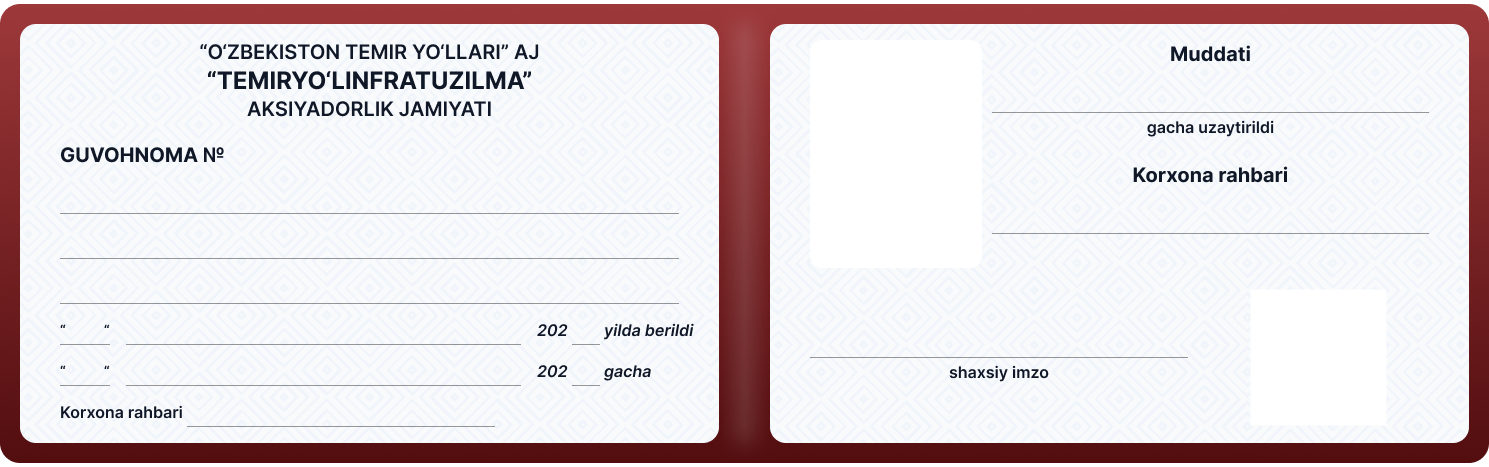
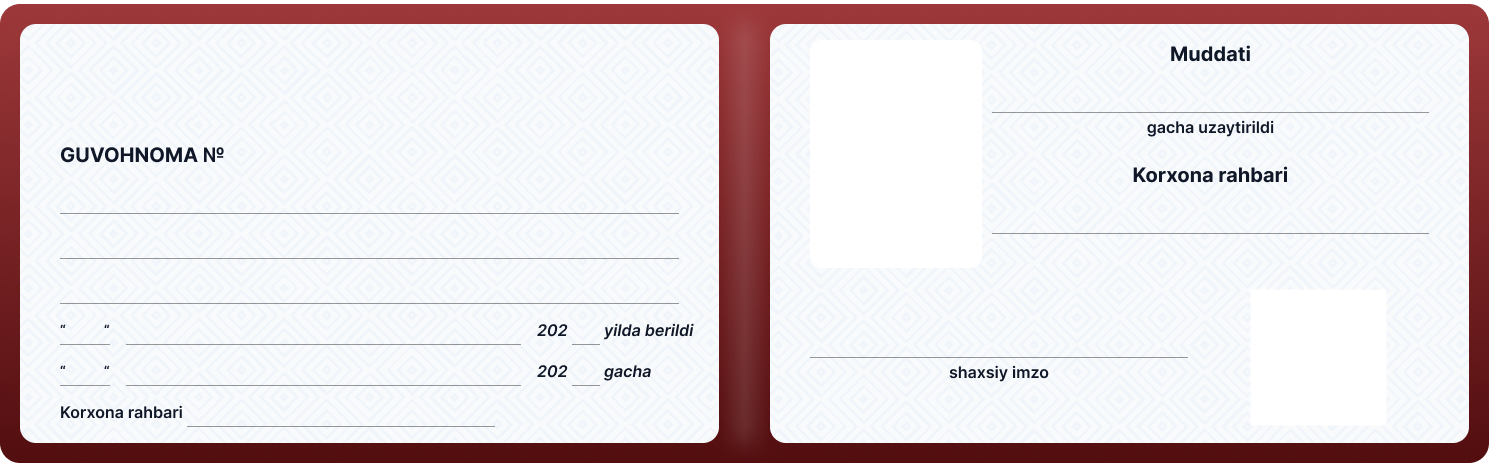
feat(certificate): draw position certificate header as text (DAS-18288)
The 3-line organisation title is erased from the blank image and drawn
from certificate.header {top, name, bottom} on the card and in the PDF/SVG;
without a header the old fixed text is used. Backend doesn't send it yet.

Changed region(s): [[0.1236, 0.0899, 0.3707, 0.2698]]

diff --git a/src/components/ui/IdRedCertificate.vue b/src/components/ui/IdRedCertificate.vue
@@ -29,6 +29,28 @@
     data: { type: Object, required: true }
   })
 
+  // Blanka sarlavhasi (tashkilot nomi, 3 qator) endi rasmda emas — backenddan keladi.
+  // BACKEND: `certificate.header` hali yuborilmaydi (docs/api/position-certificate-header.md),
+  // kelmaguncha avvalgi blankadagi matn ko'rsatiladi
+  const DEFAULT_HEADER = {
+    top: '“O‘ZBEKISTON TEMIR YO‘LLARI” AJ',
+    name: '“TEMIRYO‘LINFRATUZILMA”',
+    bottom: 'AKSIYADORLIK JAMIYATI'
+  }
+
+  // top — qator harflarining o'rtasi (blankada y 51 / 79.5 / 108 dan 467 ga)
+  const HEADER_LINES = [
+    { key: 'top', top: '10.92%', cls: 'cert-head' },
+    { key: 'name', top: '17.02%', cls: 'cert-head cert-head--name' },
+    { key: 'bottom', top: '23.13%', cls: 'cert-head' }
+  ]
+
+  const header = computed(() => {
+    const h = props.data.header
+    if (!h || !(h.top || h.name || h.bottom)) return DEFAULT_HEADER
+    return { top: h.top || '', name: h.name || '', bottom: h.bottom || '' }
+  })
+
   const isFlipped = ref(false)
   const isAnimating = ref(false)
 
@@ -97,6 +119,7 @@
       qrDataUrl: qrDataUrl.value,
       data: d,
       fields: {
+        header: header.value,
         issueDay: dayOf(d.issueDate),
         issueMonth: monthOf(d.issueDate),
         issueYear: fullYear(d.issueDate),
@@ -133,6 +156,17 @@
         class="absolute inset-0 [backface-visibility:hidden] rounded-2xl overflow-hidden shadow-lg bg-cover bg-center text-[#1c2b22]"
         :style="{ backgroundImage: `url(${frontSide})` }"
       >
+        <!-- Sarlavha: tashkilot nomi (o'rtadagi qator katta va qalin) -->
+        <span
+          v-for="line in HEADER_LINES"
+          v-show="header[line.key]"
+          :key="line.key"
+          :class="line.cls"
+          :style="{ top: line.top }"
+          :title="header[line.key]"
+          >{{ header[line.key] }}</span
+        >
+
         <!-- Guvohnoma № -->
         <span
           class="absolute left-[16%] top-[30%] max-w-[20%] cert-text font-medium sm:font-bold font-mono tracking-wide truncate"
@@ -278,6 +312,29 @@
     font-size: 13px;
   }
 
+  /* Sarlavha qatorlari chap varaq (x 20–718 / 1489) markazida; top — harflar o'rtasi */
+  .cert-head {
+    position: absolute;
+    left: 1.34%;
+    width: 46.88%;
+    padding: 0 2%;
+    transform: translateY(-50%);
+    text-align: center;
+    text-transform: uppercase;
+    white-space: nowrap;
+    overflow: hidden;
+    text-overflow: ellipsis;
+    line-height: 1.2;
+    font-weight: 500;
+    font-size: 9px;
+    color: #101828;
+  }
+
+  .cert-head--name {
+    font-weight: 700;
+    font-size: 11px;
+  }
+
   /* Blankadagi ikkita chiziq orasidagi masofa: 45/467 balandlik = 3.02cqw */
   .post-name {
     line-height: 19px;
@@ -298,6 +355,15 @@
 
     .post-name {
       line-height: 3.02cqw;
+    }
+
+    /* Blankada: 20.5px va 25px (1489px kenglikda) */
+    .cert-head {
+      font-size: 1.38cqw;
+    }
+
+    .cert-head--name {
+      font-size: 1.68cqw;
     }
   }
 

diff --git a/src/components/ui/idRedCertificatePdf.js b/src/components/ui/idRedCertificatePdf.js
@@ -89,12 +89,44 @@ function coverYear(ctx, top) {
   ctx.fillRect(pct(35.73, CARD_W), pct(top, FRONT_H), pct(2.62, CARD_W), pct(4.93, FRONT_H))
 }
 
+// Sarlavha (tashkilot nomi): chap varaq markazida, y — qatorning asos chizig'i (blankadagi kabi)
+const HEADER_CENTER_X = 369
+const HEADER_MAX_W = 640
+const HEADER_LINES = [
+  { key: 'top', baseline: 58.5, size: 20.5, weight: 500 },
+  { key: 'name', baseline: 88.5, size: 25, weight: 700 },
+  { key: 'bottom', baseline: 115.5, size: 20.5, weight: 500 }
+]
+
+function drawHeader(ctx, header) {
+  if (!header) return
+  const family = getComputedStyle(document.body).fontFamily || 'sans-serif'
+  ctx.save()
+  ctx.fillStyle = '#101828'
+  ctx.textAlign = 'center'
+  ctx.textBaseline = 'alphabetic'
+  for (const { key, baseline, size, weight } of HEADER_LINES) {
+    const text = (header[key] || '').toUpperCase()
+    if (!text) continue
+    let fontSize = size
+    ctx.font = `${weight} ${fontSize}px ${family}`
+    while (fontSize > size * MIN_SHRINK && ctx.measureText(text).width > HEADER_MAX_W) {
+      fontSize -= 0.5
+      ctx.font = `${weight} ${fontSize}px ${family}`
+    }
+    ctx.fillText(fitText(ctx, text, HEADER_MAX_W), HEADER_CENTER_X, baseline)
+  }
+  ctx.restore()
+}
+
 function renderFront({ background, photo, qr, data, fields }) {
   const { canvas, ctx } = createCardCanvas(background, {
     width: CARD_W,
     height: FRONT_H,
     radius: RADIUS
   })
+
+  drawHeader(ctx, fields.header)
 
   // Guvohnoma №
   if (data.cardNumber) {

diff --git a/src/components/worker/ui/Edocument.vue b/src/components/worker/ui/Edocument.vue
@@ -129,7 +129,9 @@
       issueDate: certificate.issue_date,
       expiryDate: certificate.expiry_date,
       extendedDate: certificate.extended_date,
-      managerName: certificate.director?.name
+      managerName: certificate.director?.name,
+      // BACKEND: blanka sarlavhasi { top, name, bottom } — hali kelmaydi (docs/api/position-certificate-header.md)
+      header: certificate.header
     }))
   })
 </script>
